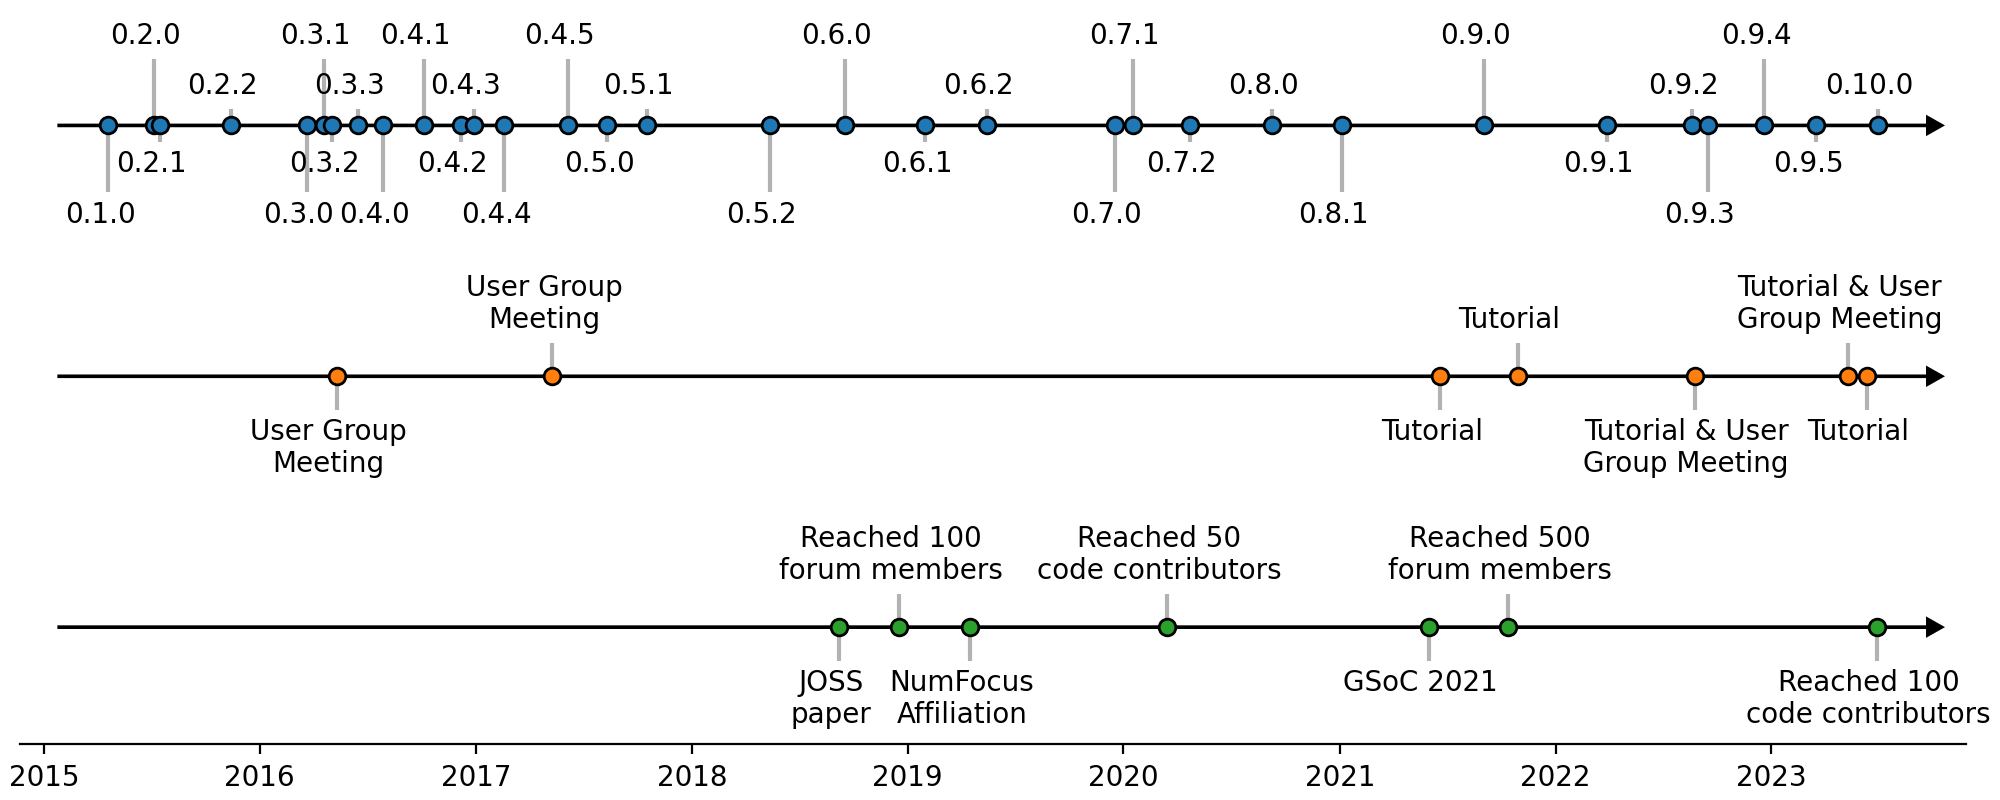
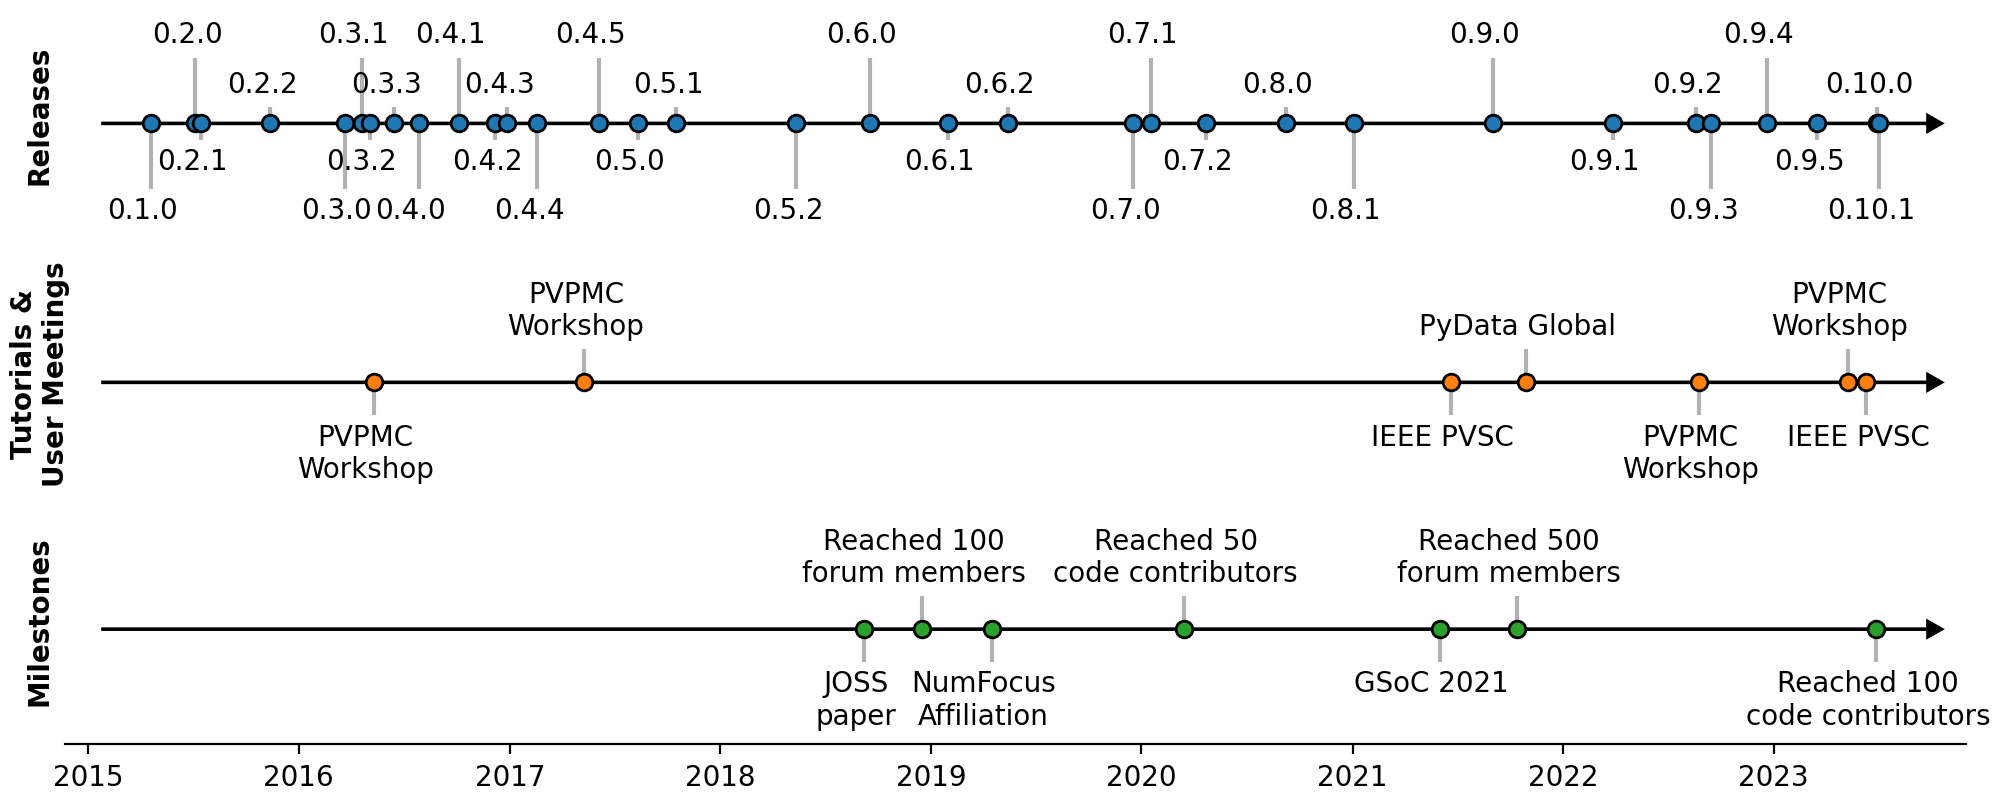
polishing with fresh eyes

diff --git a/paper/2023/paper.md b/paper/2023/paper.md
@@ -34,9 +34,10 @@ affiliations:
  - name: PV Performance Labs
    index: 4
 
-date: 30 June 2023
+date: 20 July 2023
 bibliography: paper.bib
 ---
+
 
 # Summary
 
@@ -49,21 +50,15 @@ and PV electrical models.  In addition to these individual low-level
 model implementations, pvlib python provides high-level constructs
 that chain these models together like building blocks to form complete
 "weather-to-power" phovoltaic system models.  It also provides functions to
-fetch and import weather datasets useful for PV modeling. 
-
-Unlike other popular software for PV modeling, pvlib python has the benefit
-of integrating natively with a general-purpose programming language (Python).
-In addition to being more flexible and powerful than a traditional graphical
-user interface, pvlib python's interface as a programming library
-allows it to be combined with other Python packages.  This enables
-integration with database query, data manipulation, numerical optimization,
-plotting, and reporting packages, to name just a few.
+fetch and import a wide variety of weather datasets useful for PV modeling. 
 
 pvlib python has been developed since 2015 and follows modern best
 practices for open-source python software, with comprehensive automated
-testing, standards-based packaging, and semantic versioning.  Its emphasis
-on re-use, community, transparency, and peer review has lead to its widespread
-adoption across the PV field [@Stein2022].
+testing, standards-based packaging, and semantic versioning.
+Its source code is developed openly on GitHub and releases are
+distributed via the Python Package Index (PyPI) and the conda-forge
+repository.  pvlib python's source code is made freely available under
+the permissive BSD-3 license.
 
 Here we present an update on pvlib python describing capability
 and community development since our 2018 publication [@pvlibjoss2018].
@@ -72,28 +67,40 @@ and community development since our 2018 publication [@pvlibjoss2018].
 # Statement of need
 
 Simulation tools are used throughout the field of solar phovoltaics.
-As photovoltaic technologies and systems become increasingly diverse and
-sophisticated, and as the solar energy industry rapidly grows,
-so do the demands placed on these simulation tools.  Flexibility, scalability,
-and transparency are key requirements to meet this demand.  Regarding
-trustworthy and capable photovoltaic modeling software, the U.S. Department
-of Energy states that "the importance of accurate modeling is hard to overstate"
-[@seto2022].
+The rapid increase in scale, technological diversity, and sophistication
+of the global solar energy industry demands correspondingly more
+capable simulation tools.  Per the United States Department of Energy,
+"the importance of accurate modeling is hard to overstate" [@seto2022].
 
-pvlib python's reusable toolbox design, along with being embedded within the
-broader Python and PyData ecosystems, offers a flexibility and scalability
-unmatched by any other solar energy simulation tool.  Its foundation in
-published scientific research and open peer review approach make it
-a leader in transparency in the photovoltaic modeling space.
+Compared with other PV modeling tools, pvlib python stands out in several
+key aspects.  One is its reusable toolbox design, providing the user a
+level of flexibility unmatched by other tools, which are typically limited
+to a particular set of modeling workflows hardcoded into the software.
 
-The fact that pvlib python is meeting real needs is made evident by several metrics:
+Another key aspect of pvlib python is that it is used via
+a general-purpose programming language (Python).  In addition to being more
+generally flexible, powerful, and scalable than a traditional
+graphical user interface, pvlib python's interface as a programming library
+allows it to be combined with other Python packages.  This enables
+integration with database query, data manipulation, numerical optimization,
+plotting, and reporting packages, to name just a few.
+
+A final key aspect of pvlib python is its open peer review approach and
+foundation in published scientific research, allowing it to be developed by
+a decentralized and diverse community of PV researchers and practitioners
+without compromising its reputation for transparent and reliable modeling.
+
+These core tenets, along with sustained contributions from a passionate and
+committed community, have lead to its widespread adoption across the PV
+field [@Stein2022].  In support of the claim that pvlib python provides
+meaningful value and addresses real needs, we list these quantitative metrics:
 
 1. Its 2018 JOSS publication, at the time of this writing,
 ranks 14th by citation count out of the 2000+ papers published by JOSS to date.
 2. The Python Package Index (PyPI) classifies pvlib-python as "critical project"
 due to being in the top 1% of the index's packages by download count.
-3. The project's online documentation received over 400,000 page views
-in the past year.
+3. The project's online documentation currently receives over 400,000 page views
+per year.
 
 
 # Functionality additions
@@ -105,27 +112,26 @@ First, several dozen new models have been
 implemented, expanding the package's capability in both existing and new
 modeling areas and prompting the creation of several
 new modules within pvlib python.
-Notable additions include models for loss mechanisms like soiling and snow
-coverage, and methods of fitting PV performance models to measurements.
-Also, to meet the demand for modeling bifacial PV which has become
-mainstream in recent years, new models have been added to pvlib to
-model rear-side irradiance.
+Notable additions include methods of fitting empirical PV performance models
+to measurements, models for performance loss mechanisms like soiling and snow
+coverage, and models for simulating rear-side irradiance (prompted by the recent rapid
+increase in bifacial PV deployment).
 \autoref{fig:functions-comparison} summarizes the number of models per module
-for pvlib python versions 0.6.0 and 0.10.0.
+for pvlib python versions 0.6.0 and 0.10.1.
 
-![Comparison of public function counts for selected pvlib modules for v0.6.0 and v0.10.0. Some modules are smaller in v0.10.0 due to moving functions to new modules (e.g. from `pvsystem` to `iam`).\label{fig:functions-comparison}](functions_06_010.png)
+![Comparison of public function counts for selected pvlib modules for v0.6.0 and v0.10.1. Some modules are smaller in v0.10.1 due to moving functions to new modules (e.g. from `pvsystem` to `iam`).\label{fig:functions-comparison}](functions_06_010.png)
 
 Second, in addition to the new function-level model implementations,
-the package's high-level classes have also been expanded to handle the complexity
-of emerging system designs, including systems with different
-mounting or electrical parameters between subsystems and systems that require
+the package's high-level classes have also been expanded to better support
+the complexity of emerging system designs, including systems with differing
+mounting or electrical parameters across subsystems and systems that require
 custom orientation/steering models.
 
 Third, the creation of `pvlib.iotools`, a sub-package for fetching and parsing
 datasets relevant to PV modeling.  These functions provide a standardized
 interface for reading data files in various complex data formats, offering
 conveniences like optionally standardizing the dataset labels and units
-to pvlib conventions [@Jensen2023].  As of version 0.10.0, `pvlib.iotools` contains
+to pvlib's conventions [@Jensen2023].  As of version 0.10.1, `pvlib.iotools` contains
 functions to download data from ten online datasets,
 plus file reading/parsing functions for a dozen solar resource file formats.
 
@@ -139,7 +145,7 @@ project's documentation.
 It is difficult or impossible to comprehensively describe the community around
 open-source projects like pvlib python, but some aspects of it are more easily
 quantifiable than others.  Here we examine the community from a few convenient
-perspectives, but we emphasize that this is necessarily a limited view of
+perspectives, but we emphasize that this section is necessarily a limited view of
 the community as a whole.
 
 First, we examine contributors to pvlib python's code repository.  The
@@ -151,7 +157,7 @@ spanning industry, academia, and government research institutions.
 contributors over time, demonstrating continued and generally accelerating
 attraction of new contributors.
 
-![Total repository contributor count over time (left) and other community size statistics (right). TODO: update\label{fig:community}](community.png)
+![Total repository contributor count over time (left) and other community size statistics (right).\label{fig:community}](community.png)
 
 However, the project as a whole is the product of not only of those who contribute
 code but also those who submit bug reports, propose ideas for new features,
@@ -169,13 +175,13 @@ In addition to continuous interaction online, community members sometimes
 meet in person at user's group and tutorial sessions run by pvlib python
 maintainers and community members alike.
 To date, these meetings have been held at the IEEE Photovoltaics Specialists
-Conference (PVSC), the PVPMC Workshops, and PyData Global.
+Conference (PVSC), the PVPMC Workshops, and the PyData Global conference.
 \autoref{fig:timeline} shows a timeline of these meetings, along with other
 notable events in the project's history.
 
 Finally, it is worth pointing out that pvlib python contributors and users
-are part of a broader community around not just
-pvlib python but also other members of the pvlib "family": pvanalytics, a
+are part of a broader community around not just pvlib python itself
+but also other members of the pvlib software "family": pvanalytics, a
 package for PV data quality assurance and feature recognition
 algorithms [@pvpmc2022_pvanalytics_update], and twoaxistracking, a package
 for simulating self-shading in arrays of two-axis solar trackers [@Jensen2022].
@@ -188,8 +194,8 @@ make up one portion of a growing landscape of Python-for-PV projects [@Holmgren2
 # Acknowledgements
 
 Although much of the development and maintenance of pvlib python is on a
-volunteer basis, the project has also benefited from projects funded by various
-sources, including:
+volunteer basis, the project has also been supported by projects with various
+funding sources, including:
 
 - The U.S. Department of Energy’s Solar Energy Technology Office, through
   the PV Performance Modeling Collaborative (PVPMC) and other projects
@@ -199,8 +205,9 @@ sources, including:
 
 pvlib python benefits enormously from building on top of
 various high-quality packages that have become de facto standards in the python
-ecosystem: numpy, pandas, scipy, numba (numerics), matplotlib (plotting),
-sphinx (documentation), and pytest (automated testing).
+ecosystem: numpy [@numpy], pandas [@pandas], scipy [@scipy], and numba [@numba]
+for numerics, matplotlib [@matplotlib] for plotting,
+sphinx [@sphinx] for documentation, and pytest [@pytest] for automated testing.
 The project also benefits from online infrastructure generously provided free
 of charge, including GitHub (code development and automated testing) and
 ReadTheDocs.org (documentation building and hosting).
@@ -216,7 +223,7 @@ analysis. Any subjective views or opinions that might be expressed in the paper
 do not necessarily represent the views of the U.S. Department of Energy or
 the United States Government.
 
-# NOTES/TODO
+# NOTES (to be deleted)
 
 Additional authors? 
 
